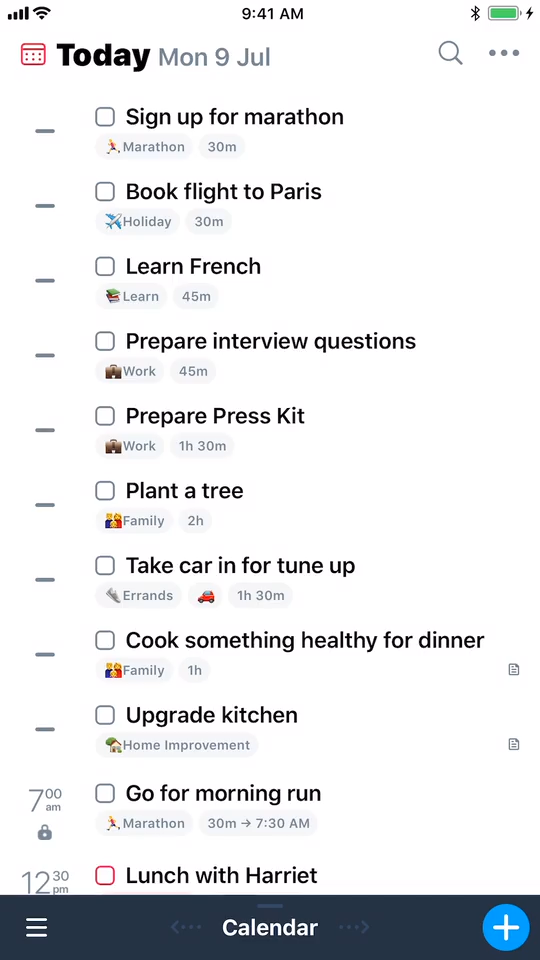
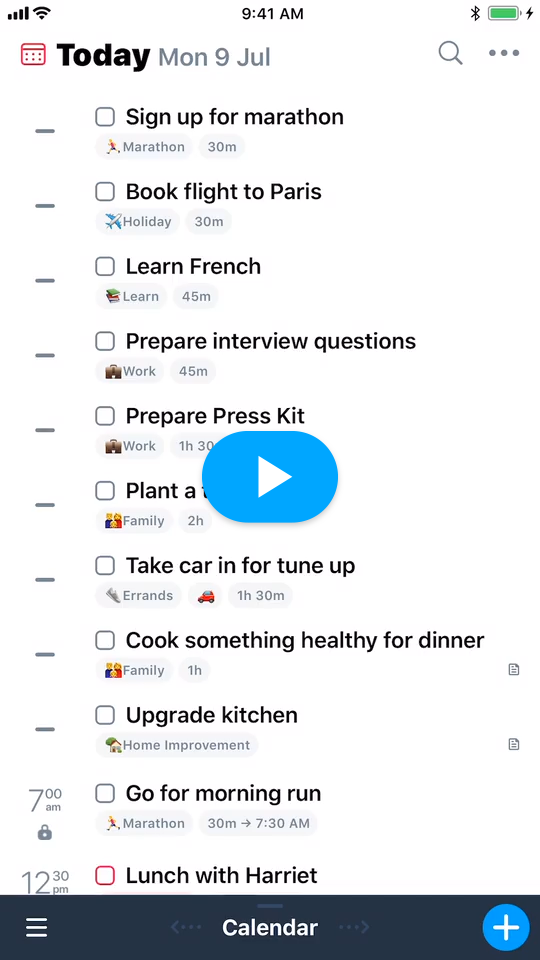
Adds play button on video poster + tap to play in js

Changed region(s): [[0.3556, 0.4375, 0.6222, 0.5625]]

diff --git a/assets/js/app.js b/assets/js/app.js
@@ -14582,6 +14582,17 @@ window.$ = _jquery2.default;
 // the line below
 //import './lib/foundation-explicit-pieces';
 
+(function () {
+  (0, _jquery2.default)(function () {
+    return (0, _jquery2.default)('video').click(function () {
+      if (this.paused) {
+        return this.play();
+      } else {
+        return this.pause();
+      }
+    });
+  });
+}).call(undefined);
 
 (0, _jquery2.default)(document).foundation();
 
